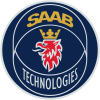
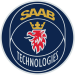
Adjust image sizes, specify height and width in img tags

diff --git a/index.html b/index.html
@@ -67,7 +67,7 @@
                     <div class="experience-duration">Dec 2017 - Apr 2021</div>
                     <div class="experience-role-type">(consultant)</div>
                 </div>
-                <img src="images/kapsch.png" alt="Kapsch Group company logotype" class="company-logotype" />
+                <img src="images/kapsch.png" alt="Kapsch Group company logotype" class="company-logotype" height="75" width="75"/>
             </div>
             <div class="column right">
                 <div class="experience-item">
@@ -119,7 +119,7 @@
                     <div class="experience-duration">May 2016 - Aug 2017</div>
                     <div class="experience-role-type">(consultant)</div>
                 </div>
-                <img src="images/saab.png" alt="Saab Group company logotype" class="company-logotype" />
+                <img src="images/saab.png" alt="Saab Group company logotype" class="company-logotype" height="75" width="75"/>
             </div>
             <div class="column right">
                 <div class="experience-item">
@@ -169,7 +169,7 @@
                     <div class="experience-duration">Feb 2016 - May 2016</div>
                     <div class="experience-role-type">(consultant)</div>
                 </div>
-                <img src="images/coloreel.png" alt="Coloreel company logotype" class="company-logotype" />
+                <img src="images/coloreel.png" alt="Coloreel company logotype" class="company-logotype" height="75" width="75"/>
             </div>
             <div class="column right">
                 <div class="experience-item">
@@ -218,7 +218,7 @@
                     <div class="experience-duration">Oct 2014 - Feb 2016</div>
                     <div class="experience-role-type">(consultant)</div>
                 </div>
-                <img src="images/husqvarna.png" alt="Husqvarna Group company logotype" class="company-logotype" />
+                <img src="images/husqvarna.png" alt="Husqvarna Group company logotype" class="company-logotype" height="75" width="75"/>
             </div>
             <div class="column right">
                 <div class="experience-item">
@@ -278,7 +278,7 @@
                     <div class="experience-duration">Jun 2011 - Oct 2014</div>
                     <div class="experience-role-type">(consultant)</div>
                 </div>
-                <img src="images/kapsch.png" alt="Kapsch Group company logotype" class="company-logotype" />
+                <img src="images/kapsch.png" alt="Kapsch Group company logotype" class="company-logotype" height="75" width="75"/>
             </div>
             <div class="column right">
                 <div class="experience-item">
@@ -330,7 +330,7 @@
                     <div class="experience-duration">Jun 2004 - Jun 2011</div>
                     <div class="experience-role-type">(employee)</div>
                 </div>
-                <img src="images/saab.png" alt="Saab Group company logotype" class="company-logotype" />
+                <img src="images/saab.png" alt="Saab Group company logotype" class="company-logotype" height="75" width="75"/>
             </div>
             <div class="column right">
                 <div class="experience-item">
@@ -374,7 +374,7 @@
                     <div class="experience-duration">Jun 1999 - Jun 2004</div>
                     <div class="experience-role-type">(employee)</div>
                 </div>
-                <img src="images/intentia.png" alt="Intentia company logotype" class="company-logotype" />
+                <img src="images/intentia.png" alt="Intentia company logotype" class="company-logotype" height="75" width="75"/>
             </div>
             <div class="column right">
                 <div class="experience-item">

diff --git a/style.css b/style.css
@@ -73,16 +73,13 @@ a:hover {
 .company-logotype {
   margin-top: 10px;
   margin-right: 10px;
-  max-height: 75px;
-  max-width: 75px;
+  max-width: 100%;
+  height: auto;
 }
 
 .company-details {
   display: flex;
   flex-direction: column;
-  /* flex-direction: column-reverse; */
-  /* align-items: center; */
-  /* justify-content: flex-start; */
 }
 
 /* main-header */
